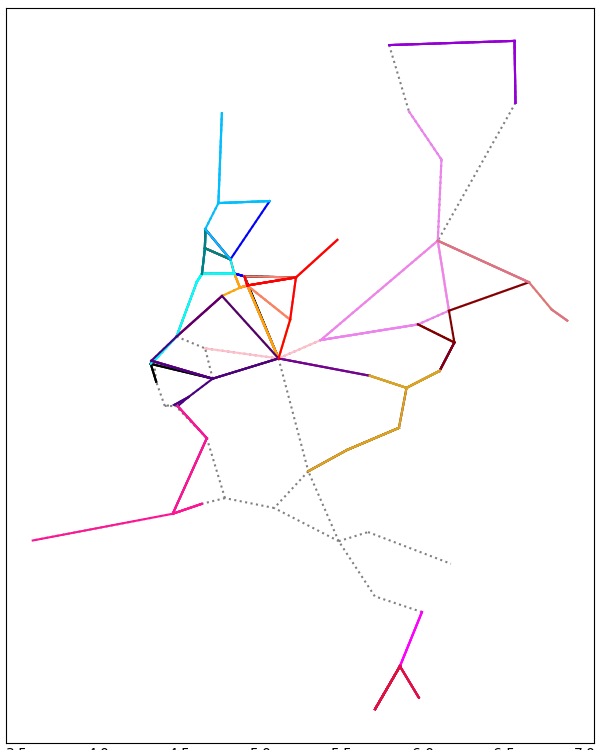
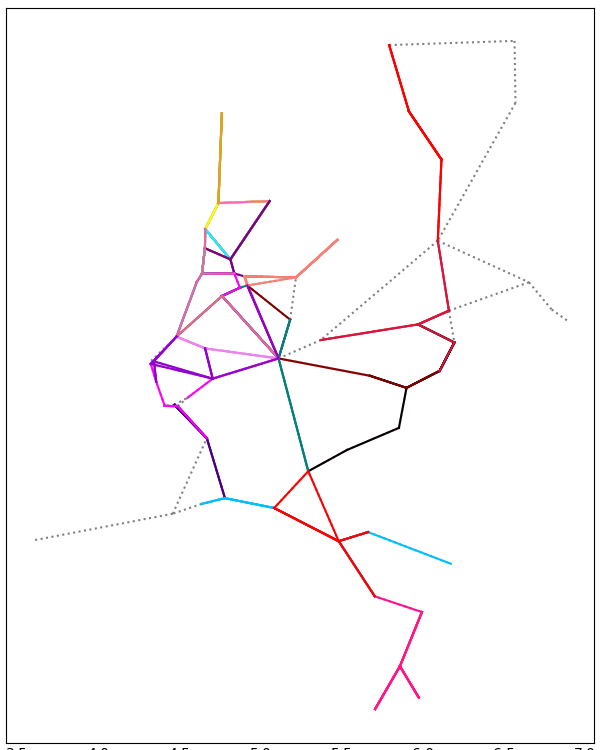
commit

diff --git a/spoorschavuiten/code/algorithms/random.py b/spoorschavuiten/code/algorithms/random.py
@@ -1,52 +1,40 @@
 import random
 from code.classes.classes import Route
 
-# ########################################################### #
-# This function takes used vs unused connections into account #
-# ########################################################### #
+
 class Random:
+    """
+    Fully random algorithm.
+    """
     def __init__(self, schedule, maxTime: int, maxTrains: int):
-        # self.region = region
         self.schedule = schedule
         self.maxTime = maxTime
         self.maxTrains = maxTrains
         self.time = 0
 
-
     def choose_station(self):
         return random.choice(list(self.schedule._stations.values()))
 
-
     def get_connections(self, currentStation) -> list:
         connections = []
-        # print(self.region._connections)
         for connection in self.schedule._connections:
-            # print(connection._stationA)
-            # print(connection._stationB)
-
             if connection._stationA == currentStation:
                 connections.append((connection, "f"))
             if connection._stationB == currentStation:
                 connections.append((connection, "b"))
         return connections
     
-
     def choose_connection(self, possibleConnections):
         return random.choice(possibleConnections)
 
-
     def add_time(self, extraTime):
         self.time += extraTime
-        # return self.time
-
 
     def subtract_time(self, extraTime):
         self.time -= extraTime
 
-
     def set_connection_is_used(self, connection):
         connection.is_used()
-
 
     def set_new_station(self, station, direction, connection):
         if direction == "f":
@@ -55,21 +43,22 @@ class Random:
             station = connection._stationA
         return station
     
-    
+    def generate_output(self) -> None:
+        self.schedule.generate_output()
+
     def run(self):
-        # self.reset()
         for _ in range(self.maxTrains):
             route = Route()
             self.time = 0
-        # Kies een random station om met de trein te beginnen.
+            # Kies een random station om met de trein te beginnen.
             currentStation = self.choose_station()
             route.add_station(currentStation)
 
-        # Kies op het station een connectie om berijden
+            # Kies op het station een connectie om berijden
             while self.time <= self.maxTime:
                 possibleConnections = self.get_connections(currentStation)
                 chosenConnection, direction = self.choose_connection(possibleConnections)
-        # Voeg deze connectie toe aan het traject, voeg de afstand toe
+                # Voeg deze connectie toe aan het traject, voeg de afstand toe
                 self.add_time(chosenConnection.get_dist())
                 if self.time > self.maxTime:
                     self.subtract_time(chosenConnection.get_dist())
@@ -81,8 +70,6 @@ class Random:
 
             self.schedule.add_route(route)
             self.schedule.update_time(self.time)
-        # Stop met trajecten leggen als alle verbindingen zijn gemaakt.
+            # Stop met trajecten leggen als alle verbindingen zijn gemaakt.
             if self.schedule.is_solution():
                 break
-        # Herhaal tot time > maxTime bij de volgende stap, of tot er maxTrain aantal trajecten zijn gemaakt.
-    

diff --git a/spoorschavuiten/code/algorithms/greedy.py b/spoorschavuiten/code/algorithms/greedy.py
@@ -1,0 +1,58 @@
+from code.algorithms.random import Random
+from code.classes.classes import Route
+import random
+
+
+class Greedy(Random):
+    """
+    Routes starts at random locations, but the rest is searched for in greedy way.
+    """
+    def get_connections(self, current_station) -> list:
+        possible_connections = []
+        unused_connections = []
+        
+        for connection in self.schedule._connections:
+            if connection._stationA == current_station:
+                possible_connections.append((connection, "f"))
+                if not connection._used:
+                    unused_connections.append((connection, "f"))
+            if connection._stationB == current_station:
+                possible_connections.append((connection, "b"))
+                if not connection._used:
+                    unused_connections.append((connection, "b"))
+        
+        return possible_connections, unused_connections
+
+    def choose_connection(self, possible_connections, unused_connections):
+        if len(unused_connections) > 0:
+            return random.choice(unused_connections)
+        else:    
+            return random.choice(possible_connections)
+
+    def run(self):
+        for _ in range(self.maxTrains):
+            route = Route()
+            self.time = 0
+            # Kies een random station om met de trein te beginnen.
+            currentStation = self.choose_station()
+            route.add_station(currentStation)
+
+            # Kies op het station een connectie om berijden
+            while self.time <= self.maxTime:
+                possible_connections, unused_connections = self.get_connections(currentStation)
+                chosenConnection, direction = self.choose_connection(possible_connections, unused_connections)
+                # Voeg deze connectie toe aan het traject, voeg de afstand toe
+                self.add_time(chosenConnection.get_dist())
+                if self.time > self.maxTime:
+                    self.subtract_time(chosenConnection.get_dist())
+                    break
+                self.set_connection_is_used(chosenConnection)
+                currentStation = self.set_new_station(currentStation, direction, chosenConnection)
+                route.add_connection(chosenConnection)
+                route.add_station(currentStation)
+
+            self.schedule.add_route(route)
+            self.schedule.update_time(self.time)
+            # Stop met trajecten leggen als alle verbindingen zijn gemaakt.
+            if self.schedule.is_solution():
+                break

diff --git a/spoorschavuiten/code/algorithms/depth_first.py b/spoorschavuiten/code/algorithms/depth_first.py
@@ -3,42 +3,28 @@ import copy
 
 class DepthFirst:
     """
-    A Depth First algorithm that builds a stack of regions with a unique assignment of routes for each instance.
+    A Depth First algorithm that builds a stack of schedules with a unique assignment of routes for each instance.
     """
     def __init__(self, schedule) -> None:
-        # sla beste schedule met betreffende score op
+        self._schedule = schedule.copy()
+
+        # initialiseer lijst van mogelijke schedules
         self._stack = []
+
+        # sla beste schedule met betreffende score op
         self.best_solution = schedule
         self.best_score = schedule.calculate_value()
 
     def create_all_possible_schedules(self):
-        # creeer staten boom
-
-    
-    
-        # neem eerste staat in de boom
-        next_schedule = self._stack.pop()
-
-        # vergelijk score van staat met beste staat
-        if next_schedule.calculate_value() > 
-        # neem volgende staat in de boom
-
-class DepthFirst:
-    """
-    A Depth First algorithm that builds a stack of schedules with a unique assignment of routes for each instance.
-    """
-    def __init__(self, schedule) -> None:
-        # initialiseer lijst van mogelijke schedules
-        # sla beste schedule met betreffende score op
-
-    def create_all_possible_schedules(self):
         # creeer staten boom en voeg toe aan lijst
 
-    def get_next_schedule(self:)
+    def get_next_state(self):
         # neem eerste staat in de boom
+        return self._stack.pop()
 
     def check_scores(self:)
         # vergelijk score van staat met beste staat
+        if next_schedule.calculate_value() > :
         # sla de beste op
 
     def run(self):

diff --git a/spoorschavuiten/main_script.py b/spoorschavuiten/main_script.py
@@ -1,6 +1,8 @@
-from code.classes.classes import Region
-from code.algorithms import randomise, randomise2
+from code.classes.classes import Region, Schedule
+from code.algorithms.random import Random
+from code.algorithms.greedy import Greedy
 from code.visualization.visualize import *
+
 
 if __name__ == "__main__":
 
@@ -12,13 +14,19 @@ if __name__ == "__main__":
     holland = Region("data/StationsHolland.csv", "data/ConnectiesHolland.csv")
     nederland = Region("data/StationsNationaal.csv", "data/ConnectiesNationaal.csv")
 
+    new_schedule = Schedule(holland)
     max_trains = 7
+    max_time = 120
 
-    for i in range(max_trains):
-        randomise2.random_route(holland)
-        if holland.is_solution():
-            break
-    holland.generate_output()
+    greedy_schedule = Greedy(new_schedule, max_time, max_trains)
+    greedy_schedule.run()
+    greedy_schedule.generate_output()
+
+    # for i in range(max_trains):
+    #     randomise2.random_route(holland)
+    #     if holland.is_solution():
+    #         break
+    # holland.generate_output()
 
     #makeMapWithNames(holland)
     #drawUsedConnections(holland, colors)

diff --git a/spoorschavuiten/distribution.py b/spoorschavuiten/distribution.py
@@ -1,6 +1,6 @@
 from code.classes.classes import Region, Schedule
 # from code.algorithms import randomise, randomise2, randomWithConstraints
-from spoorschavuiten.code.algorithms import random as rd
+from code.algorithms import random as rd
 from code.visualization.visualize import *
 import time
 
@@ -43,7 +43,7 @@ if __name__ == "__main__":
     # print("Average = " + str(sum(all_outputs) / 100000))
     end = time.time()
     # outputGraph(all_outputs, timeList)
-    print(all_outputs)
+    # print(all_outputs)
     # outputGraphHist(all_outputs, timeList)
 
     
